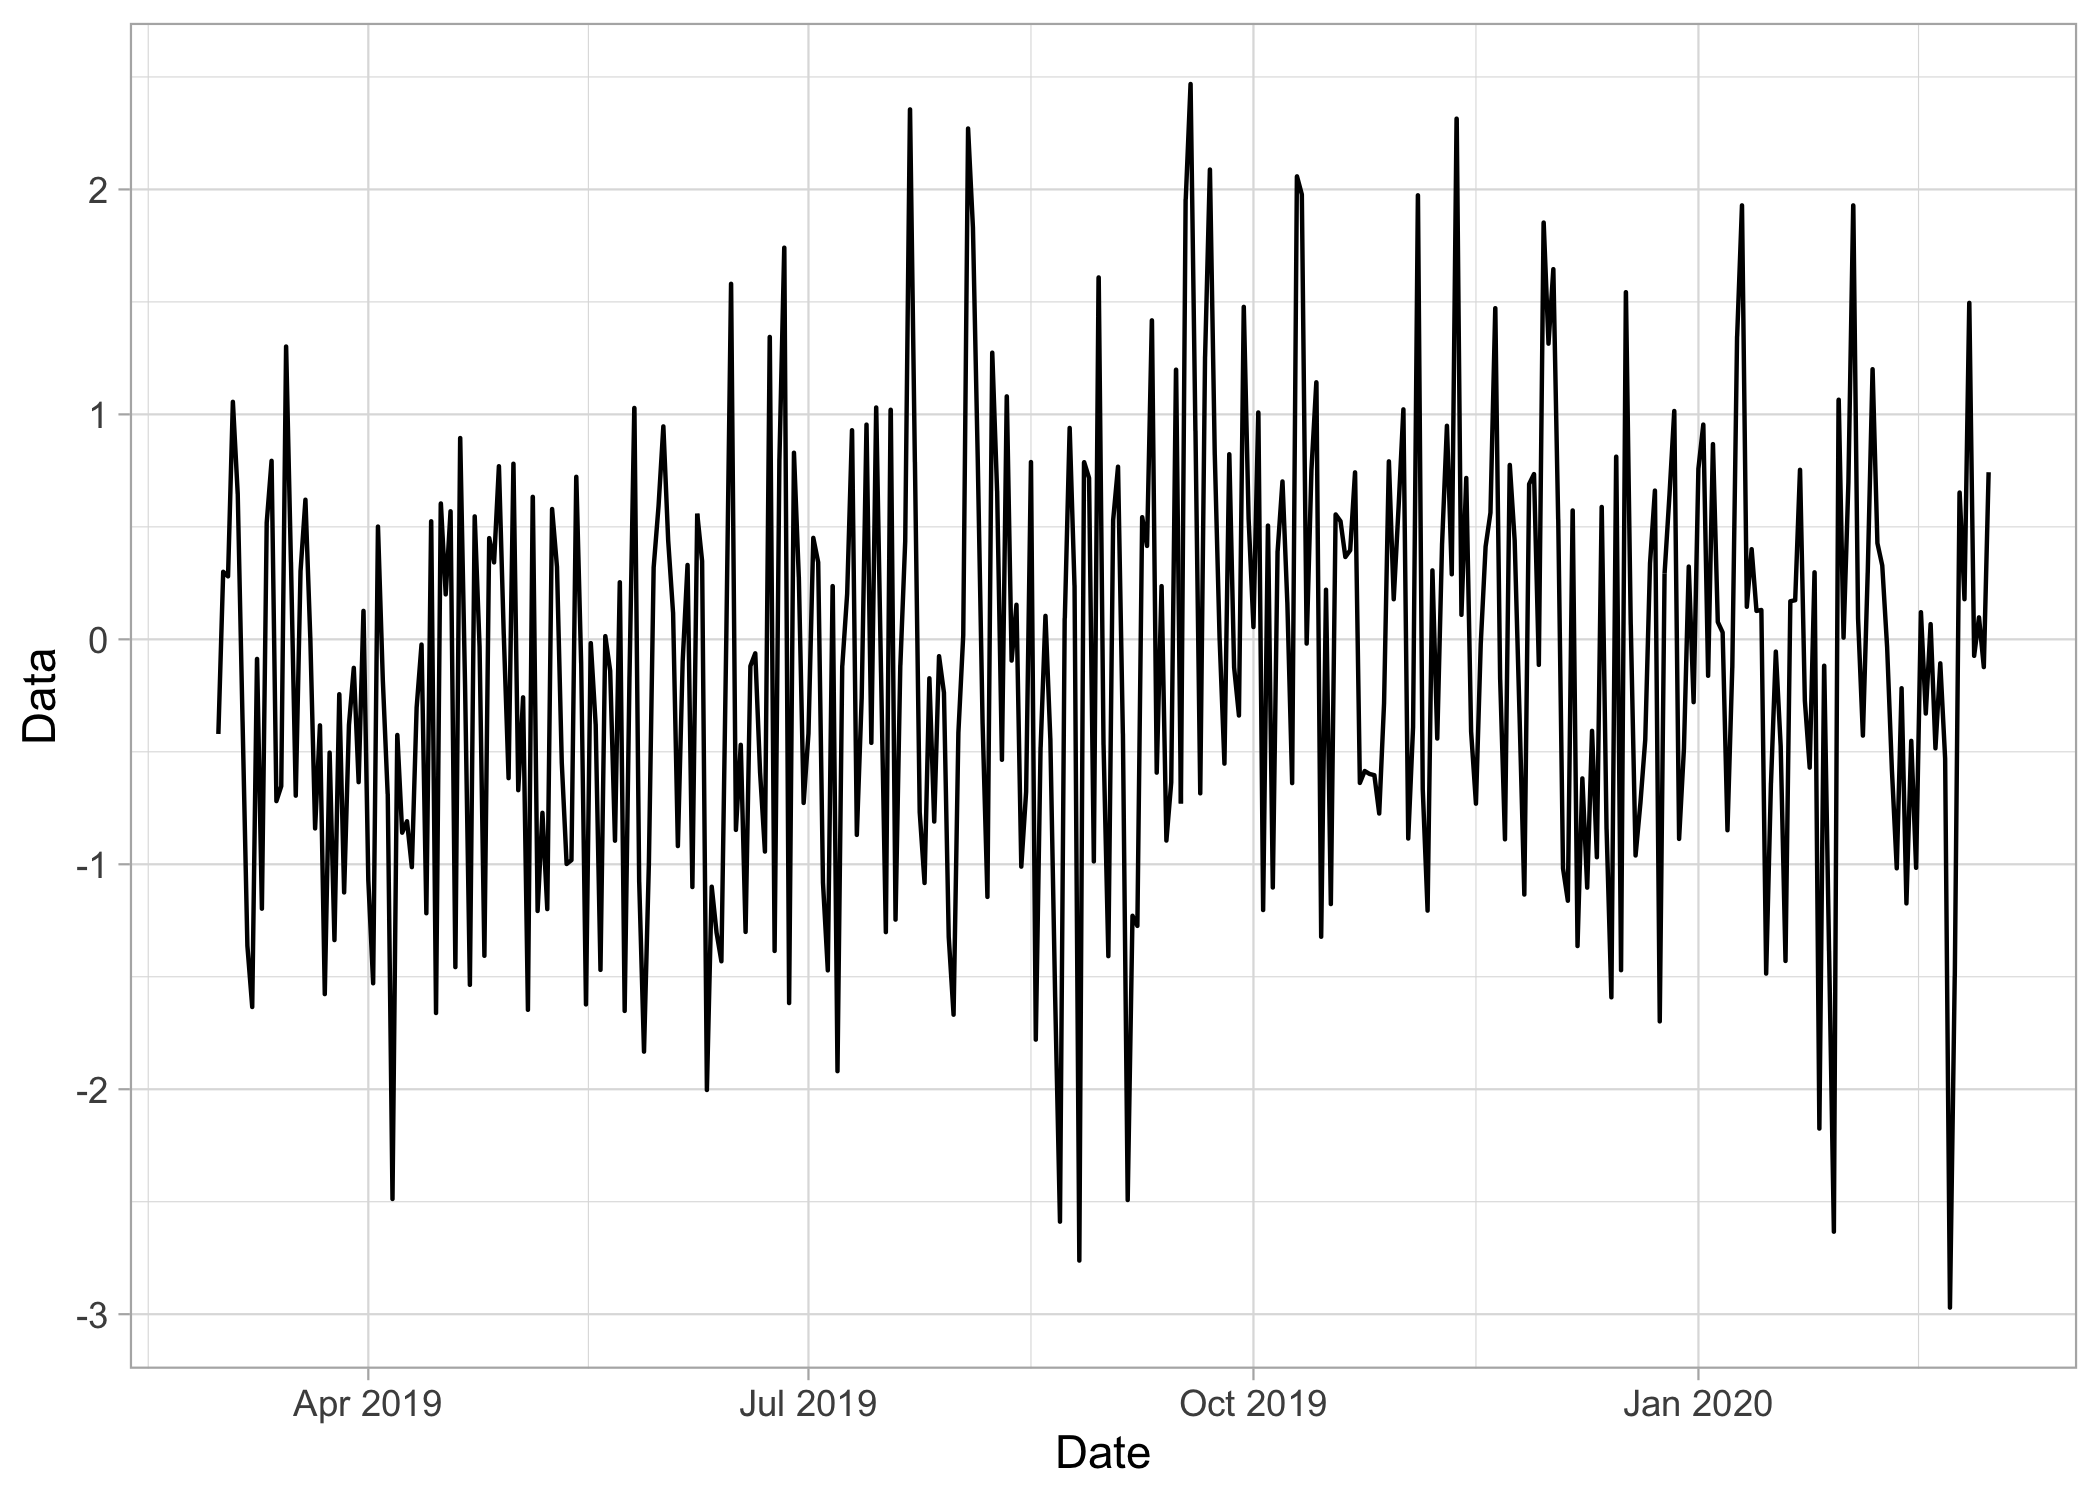
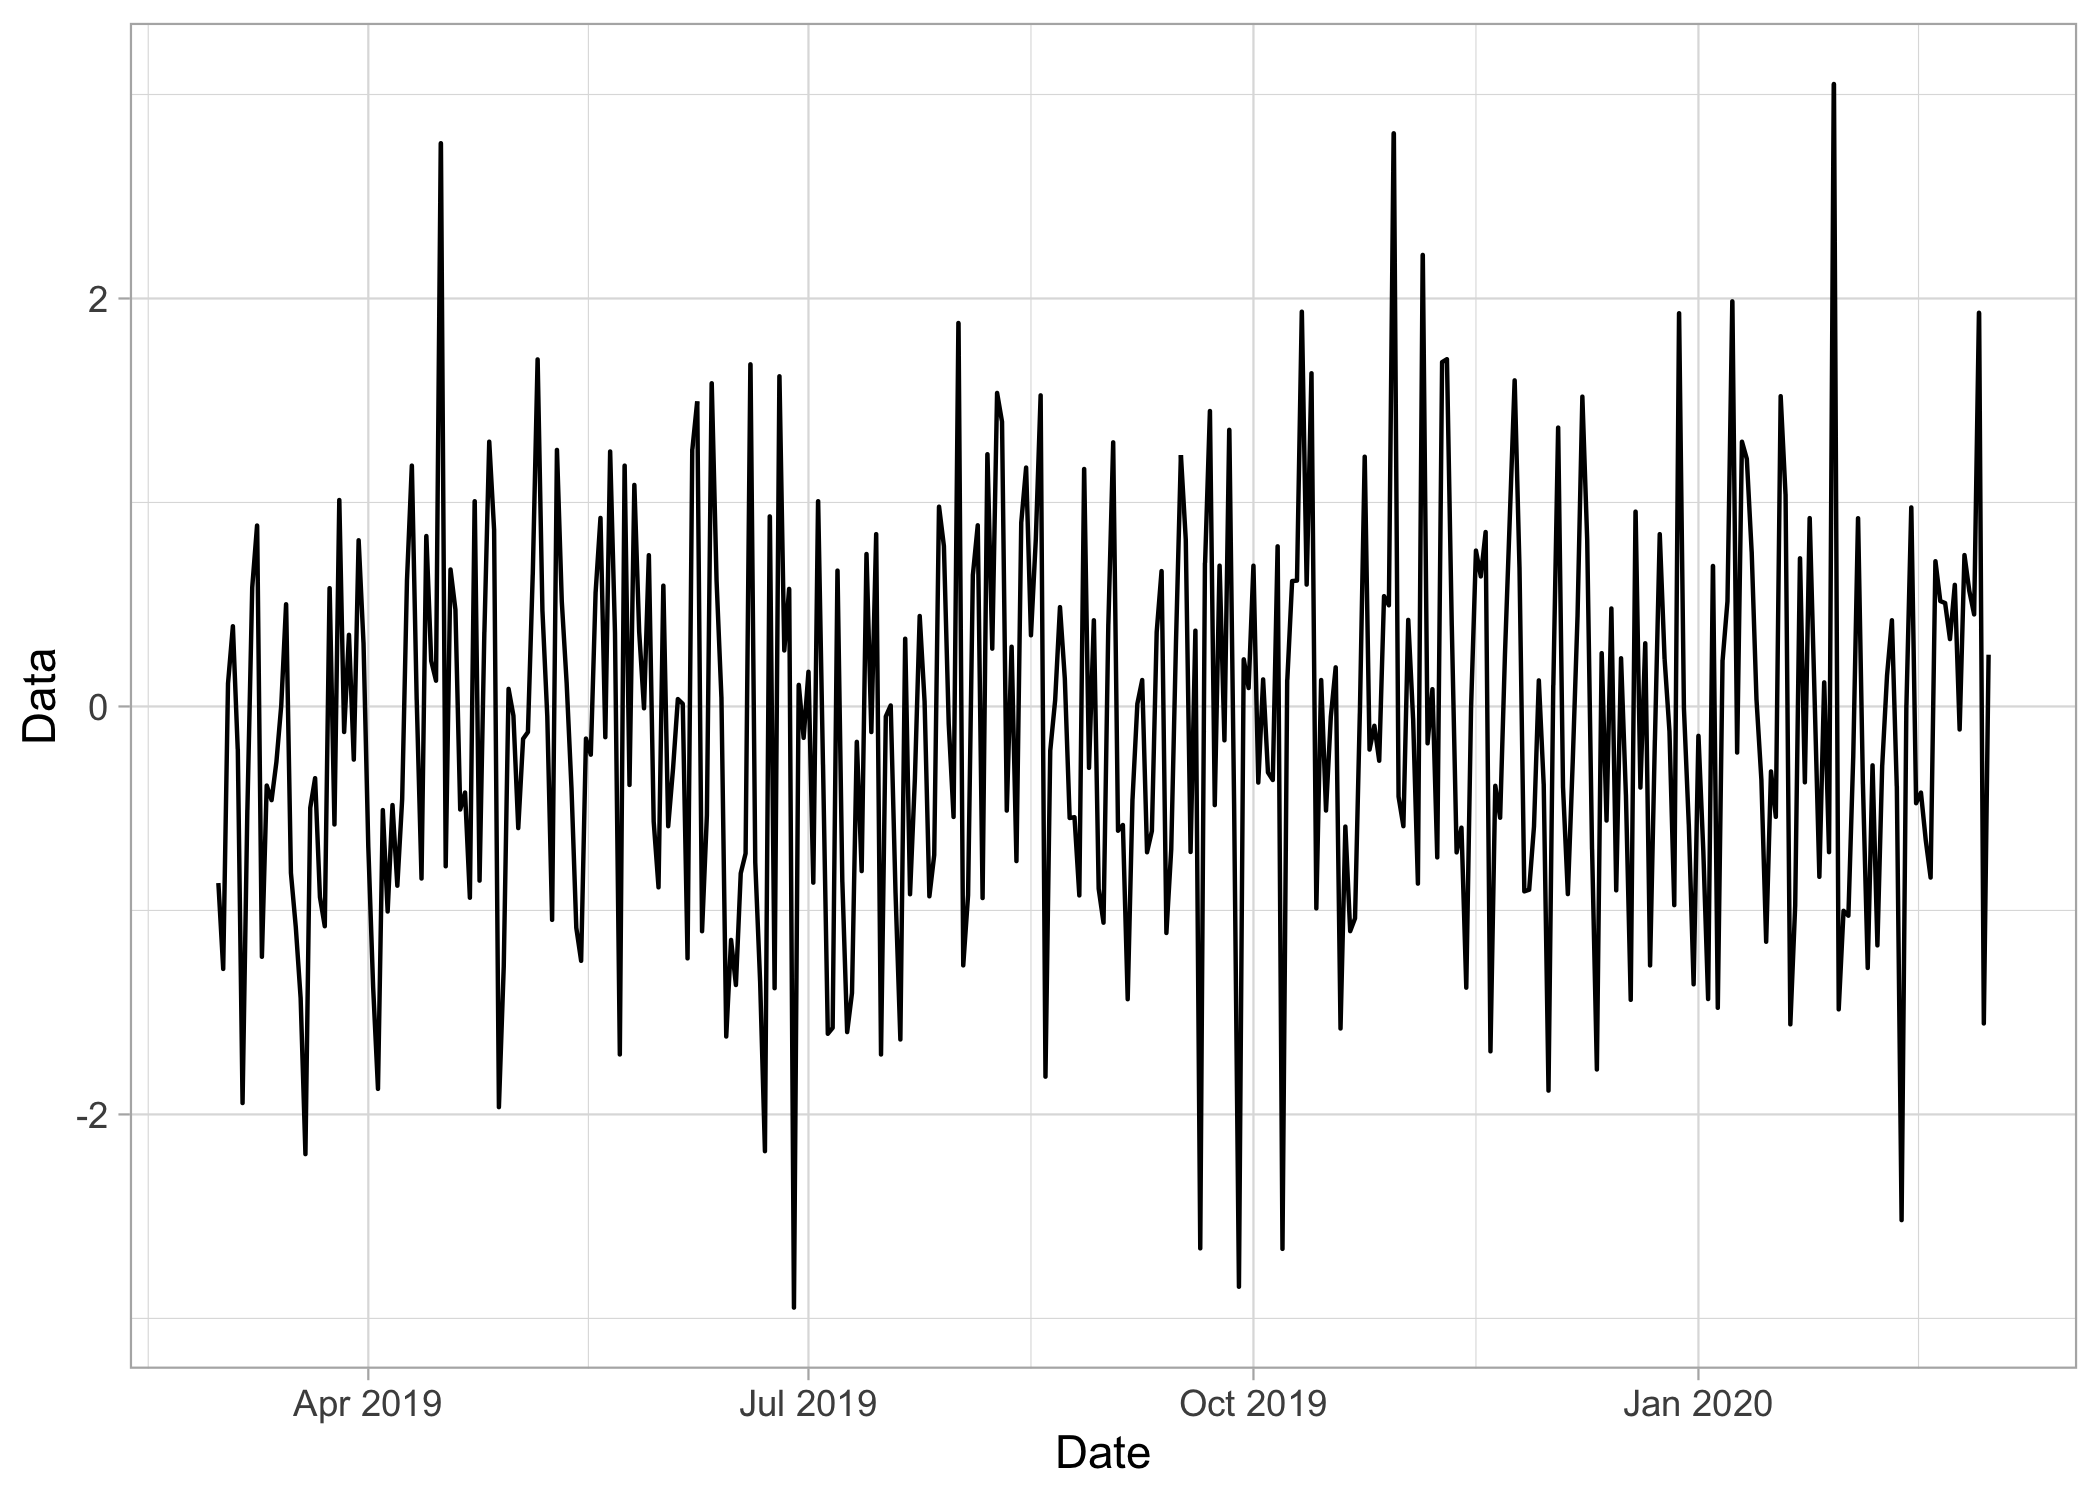
Add monthly data to lubridate

Changed region(s): [[0.0929, 0.0613, 0.9595, 0.8587], [0.8667, 0.0613, 0.8976, 0.092], [0.3714, 0.8587, 0.4024, 0.8893]]

diff --git a/Lubridate.md b/Lubridate.md
@@ -115,7 +115,7 @@ minute(d_this_moment)
 ```
 
 ```
-## [1] 15
+## [1] 58
 ```
 
 ```r
@@ -123,7 +123,7 @@ second(d_this_moment)
 ```
 
 ```
-## [1] 59.99892
+## [1] 4.92336
 ```
 
 ## Time intervals
@@ -238,17 +238,17 @@ head(create_data, 10)
 ```
 
 ```
-##          Date     Values
-## 1  1920-03-26  1.2975620
-## 2  1921-03-26 -0.4556365
-## 3  1922-03-26 -0.1932643
-## 4  1923-03-26  1.9177252
-## 5  1924-03-26  1.1945447
-## 6  1925-03-26  1.2314872
-## 7  1926-03-26  1.1149729
-## 8  1927-03-26 -0.9953832
-## 9  1928-03-26  0.4278804
-## 10 1929-03-26  0.6062578
+##          Date      Values
+## 1  1920-03-26  0.92132217
+## 2  1921-03-26 -0.48954728
+## 3  1922-03-26  0.24892551
+## 4  1923-03-26 -0.02794032
+## 5  1924-03-26 -0.53487064
+## 6  1925-03-26 -0.23289271
+## 7  1926-03-26 -0.99447128
+## 8  1927-03-26 -0.67611477
+## 9  1928-03-26 -0.85462114
+## 10 1929-03-26  0.46573355
 ```
 
 ```r
@@ -281,6 +281,7 @@ timediff
 datam <- data.frame(Date = date1 + days(timediff:0), 
                     Data = rnorm(timediff + 1))
 
+
 ggplot(datam, aes(Date, Data))+
   geom_line()+
   theme_light()
@@ -289,6 +290,34 @@ ggplot(datam, aes(Date, Data))+
 ![](Lubridate_files/figure-html/unnamed-chunk-11-1.png)<!-- -->
 
 Observe that we add 1 to `timediff` variable when creating `Data` in data.frame to make the sizes compatible. The reason is as we explained before. The current date increases the number of days/months by 1.
+
+
+Instead, if we want to use `months(timediff:0)` we need to divide the difference and then use `ceiling()` function to convert it to an integer. The above graph can be obtained as given  below as well.
+
+
+```r
+timediff2 <- ceiling(timediff/30)
+timediff2
+```
+
+```
+## Time difference of 13 days
+```
+
+```r
+datam2 <- data.frame(Date = date1 + months(timediff2:0), 
+                    Data = rnorm(timediff2 + 1))
+
+ggplot(datam2, aes(Date, Data))+
+  geom_line()+
+  theme_light()+
+  labs(title = "Change time series frequency to monthly",
+       caption = "Monthly Frequency")
+```
+
+![](Lubridate_files/figure-html/unnamed-chunk-12-1.png)<!-- -->
+
+In this case, we have changed the data frequency into monthly, therefore we have less frequent data. 
 
 
 
